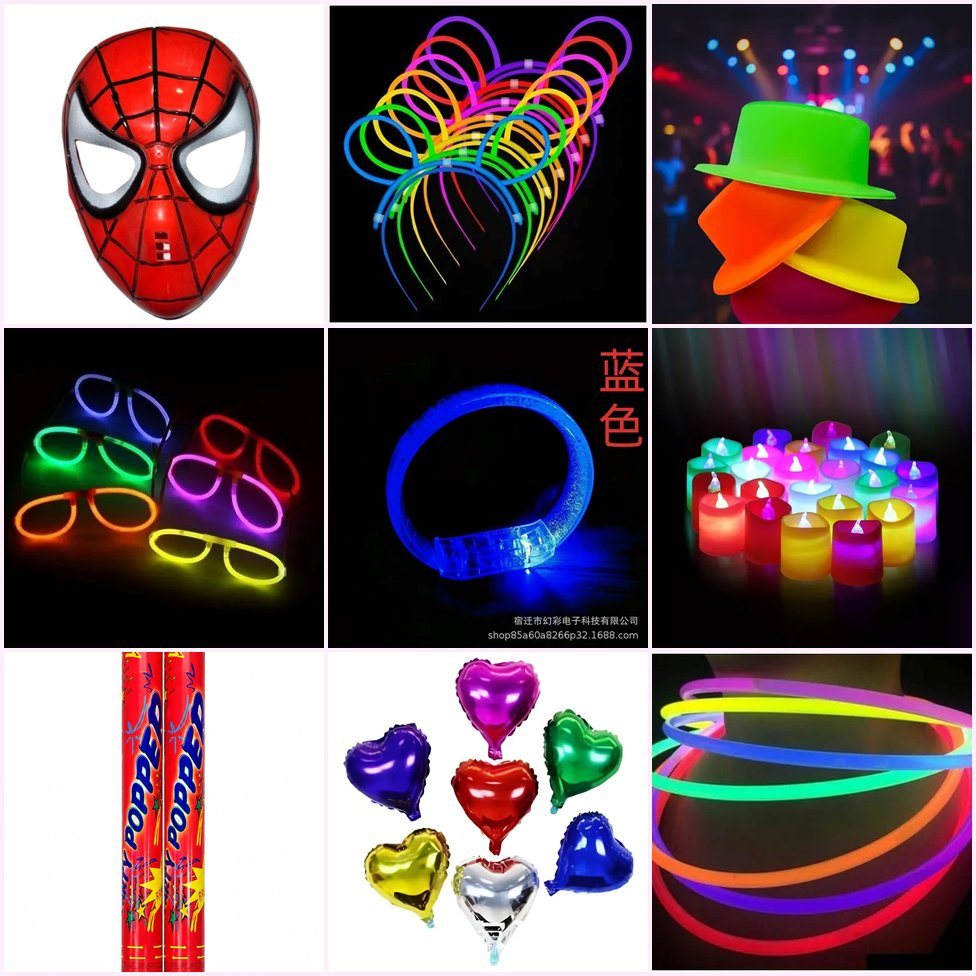
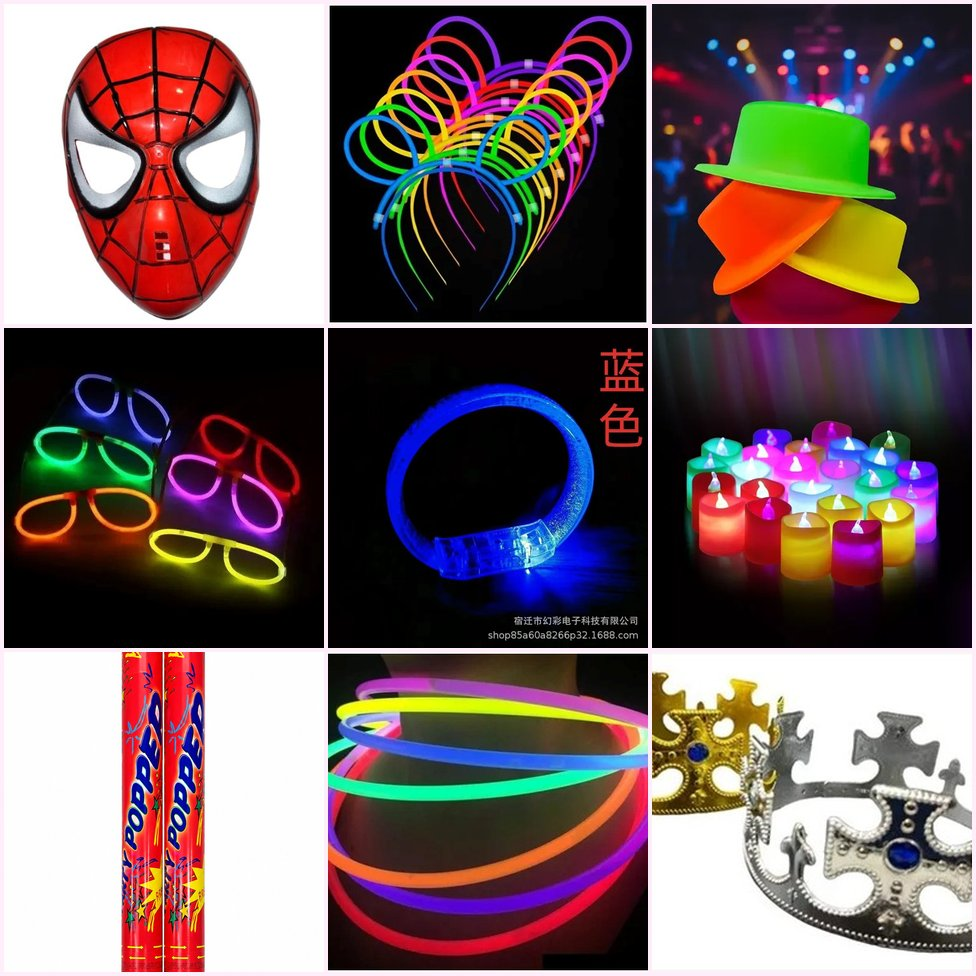
Sacar globos y bombuchas de todos los combos de cotillon
Los combos deben ser solo cotillon (decoracion, accesorios, luces,
juguetes), no globos ni bombuchas. Se reemplazaron los articulos con
globo por otros del catalogo real de Tyna, recalculando cantidad y
precio total de las 20 tarjetas:
 - Surtido: saca globos T260 y globo corazon -> agrega matracas y
   adornos mariposa dorada
 - Barato: saca bombuchas y globos T260 -> agrega anotadores y
   sorbetes metalizados
 - Medio: saca globo corazon -> agrega vincha de flores multicolor
 - Premium: saca globo corazon -> agrega corona rey dorado/plateado
 - LED/Neon: no tenia globos, sin cambios de articulos
Tambien se regeneraron las 4 portadas tipo collage afectadas sin
fotos de globos.

Changed region(s): [[0.3381, 0.6455, 1.0, 1.0]]

diff --git a/index.html b/index.html
@@ -1468,26 +1468,26 @@ footer strong{color:var(--gold2);}
 ════════════════════════════════════════ */
 const PRODUCTS = {
   combos: [
-    {id:'combo-barato-50',name:'Combo Cotillón Barato — 50 Personas',desc:'Combo Cotillón Barato, el más conveniente: mucha cantidad al mejor precio, con 9 artículos surtidos pensado para una fiesta de 50 personas. El detalle completo está en "Ver detalle".',items:['5x Bombuchas globo perlado (paq. 25 unid.)','20x Velas número (surtidas)','5x Pétalos de rosa de tela','15x Antifaces carnaval veneciano','20x Pulseras mágicas fluorescentes','3x Pulseras neón (tubo x50 unid.)','15x Bombines gibreados fluo','5x Globos surtidos standard T260 (paq. 20 unid.)','5x Lanzapapel de resorte'],price:17912.89,units:'9 artículos surtidos',img:'img/combo-barato-cover.jpg',badge:'Barato · 50 Personas',badgeType:'',linea:'🎁 Combo armado',sellMode:'bulk'},
-    {id:'combo-barato-100',name:'Combo Cotillón Barato — 100 Personas',desc:'Combo Cotillón Barato, el más conveniente: mucha cantidad al mejor precio, con 9 artículos surtidos pensado para una fiesta de 100 personas. El detalle completo está en "Ver detalle".',items:['10x Bombuchas globo perlado (paq. 25 unid.)','40x Velas número (surtidas)','10x Pétalos de rosa de tela','30x Antifaces carnaval veneciano','40x Pulseras mágicas fluorescentes','6x Pulseras neón (tubo x50 unid.)','30x Bombines gibreados fluo','10x Globos surtidos standard T260 (paq. 20 unid.)','10x Lanzapapel de resorte'],price:35825.78,units:'9 artículos surtidos',img:'img/combo-barato-cover.jpg',badge:'Barato · 100 Personas',badgeType:'',linea:'🎁 Combo armado',sellMode:'bulk'},
-    {id:'combo-barato-150',name:'Combo Cotillón Barato — 150 Personas',desc:'Combo Cotillón Barato, el más conveniente: mucha cantidad al mejor precio, con 9 artículos surtidos pensado para una fiesta de 150 personas. El detalle completo está en "Ver detalle".',items:['15x Bombuchas globo perlado (paq. 25 unid.)','60x Velas número (surtidas)','15x Pétalos de rosa de tela','45x Antifaces carnaval veneciano','60x Pulseras mágicas fluorescentes','9x Pulseras neón (tubo x50 unid.)','45x Bombines gibreados fluo','15x Globos surtidos standard T260 (paq. 20 unid.)','15x Lanzapapel de resorte'],price:53738.67,units:'9 artículos surtidos',img:'img/combo-barato-cover.jpg',badge:'Barato · 150 Personas',badgeType:'',linea:'🎁 Combo armado',sellMode:'bulk'},
-    {id:'combo-barato-200',name:'Combo Cotillón Barato — 200 Personas',desc:'Combo Cotillón Barato, el más conveniente: mucha cantidad al mejor precio, con 9 artículos surtidos pensado para una fiesta de 200 personas. El detalle completo está en "Ver detalle".',items:['20x Bombuchas globo perlado (paq. 25 unid.)','80x Velas número (surtidas)','20x Pétalos de rosa de tela','60x Antifaces carnaval veneciano','80x Pulseras mágicas fluorescentes','12x Pulseras neón (tubo x50 unid.)','60x Bombines gibreados fluo','20x Globos surtidos standard T260 (paq. 20 unid.)','20x Lanzapapel de resorte'],price:71651.56,units:'9 artículos surtidos',img:'img/combo-barato-cover.jpg',badge:'Barato · 200 Personas',badgeType:'',linea:'🎁 Combo armado',sellMode:'bulk'},
-    {id:'combo-medio-50',name:'Combo Cotillón Medio — 50 Personas',desc:'Combo Cotillón Medio, un punto medio entre variedad y precio, con 8 artículos surtidos pensado para una fiesta de 50 personas. El detalle completo está en "Ver detalle".',items:['10x Globos corazón decorativos 18"','25x Antifaces fluo con elástico','25x Gorros funyi metalizados','1x Velas largas con brillos (paq. 6 unid.)','1x Collares flexibles neón (tubo x50 unid.)','15x Pulseras acrílicas LED','15x Mechones de colores para el pelo','15x Corbatas fluo'],price:53004.67,units:'8 artículos surtidos',img:'img/combo-medio-cover.jpg',badge:'Medio · 50 Personas',badgeType:'',linea:'🎁 Combo armado',sellMode:'bulk'},
-    {id:'combo-medio-100',name:'Combo Cotillón Medio — 100 Personas',desc:'Combo Cotillón Medio, un punto medio entre variedad y precio, con 8 artículos surtidos pensado para una fiesta de 100 personas. El detalle completo está en "Ver detalle".',items:['20x Globos corazón decorativos 18"','50x Antifaces fluo con elástico','50x Gorros funyi metalizados','2x Velas largas con brillos (paq. 6 unid.)','2x Collares flexibles neón (tubo x50 unid.)','30x Pulseras acrílicas LED','30x Mechones de colores para el pelo','30x Corbatas fluo'],price:106009.34,units:'8 artículos surtidos',img:'img/combo-medio-cover.jpg',badge:'Medio · 100 Personas',badgeType:'',linea:'🎁 Combo armado',sellMode:'bulk'},
-    {id:'combo-medio-150',name:'Combo Cotillón Medio — 150 Personas',desc:'Combo Cotillón Medio, un punto medio entre variedad y precio, con 8 artículos surtidos pensado para una fiesta de 150 personas. El detalle completo está en "Ver detalle".',items:['30x Globos corazón decorativos 18"','75x Antifaces fluo con elástico','75x Gorros funyi metalizados','3x Velas largas con brillos (paq. 6 unid.)','3x Collares flexibles neón (tubo x50 unid.)','45x Pulseras acrílicas LED','45x Mechones de colores para el pelo','45x Corbatas fluo'],price:159014.01,units:'8 artículos surtidos',img:'img/combo-medio-cover.jpg',badge:'Medio · 150 Personas',badgeType:'',linea:'🎁 Combo armado',sellMode:'bulk'},
-    {id:'combo-medio-200',name:'Combo Cotillón Medio — 200 Personas',desc:'Combo Cotillón Medio, un punto medio entre variedad y precio, con 8 artículos surtidos pensado para una fiesta de 200 personas. El detalle completo está en "Ver detalle".',items:['40x Globos corazón decorativos 18"','100x Antifaces fluo con elástico','100x Gorros funyi metalizados','4x Velas largas con brillos (paq. 6 unid.)','4x Collares flexibles neón (tubo x50 unid.)','60x Pulseras acrílicas LED','60x Mechones de colores para el pelo','60x Corbatas fluo'],price:212018.68,units:'8 artículos surtidos',img:'img/combo-medio-cover.jpg',badge:'Medio · 200 Personas',badgeType:'',linea:'🎁 Combo armado',sellMode:'bulk'},
-    {id:'combo-premium-50',name:'Combo Cotillón Premium — 50 Personas',desc:'Combo Cotillón Premium, la selección más completa, con más variedad de artículos, con 10 artículos surtidos pensado para una fiesta de 50 personas. El detalle completo está en "Ver detalle".',items:['15x Máscaras de personajes','15x Vinchas neón','10x Galeras fluo','15x Anteojos con luz neón multicolor','15x Pulseras acrílicas LED','2x Velas de cotillón LED','5x Lanzapapel multicolor 50 cm','10x Squishy Capibara (juguete sorpresa)','10x Globos corazón decorativos 18"','1x Collares flexibles neón (tubo x50 unid.)'],price:87296.94,units:'10 artículos surtidos',img:'img/combo-premium-cover.jpg',badge:'Premium · 50 Personas',badgeType:'',linea:'🎁 Combo armado',sellMode:'bulk'},
-    {id:'combo-premium-100',name:'Combo Cotillón Premium — 100 Personas',desc:'Combo Cotillón Premium, la selección más completa, con más variedad de artículos, con 10 artículos surtidos pensado para una fiesta de 100 personas. El detalle completo está en "Ver detalle".',items:['30x Máscaras de personajes','30x Vinchas neón','20x Galeras fluo','30x Anteojos con luz neón multicolor','30x Pulseras acrílicas LED','4x Velas de cotillón LED','10x Lanzapapel multicolor 50 cm','20x Squishy Capibara (juguete sorpresa)','20x Globos corazón decorativos 18"','2x Collares flexibles neón (tubo x50 unid.)'],price:174593.88,units:'10 artículos surtidos',img:'img/combo-premium-cover.jpg',badge:'Premium · 100 Personas',badgeType:'',linea:'🎁 Combo armado',sellMode:'bulk'},
-    {id:'combo-premium-150',name:'Combo Cotillón Premium — 150 Personas',desc:'Combo Cotillón Premium, la selección más completa, con más variedad de artículos, con 10 artículos surtidos pensado para una fiesta de 150 personas. El detalle completo está en "Ver detalle".',items:['45x Máscaras de personajes','45x Vinchas neón','30x Galeras fluo','45x Anteojos con luz neón multicolor','45x Pulseras acrílicas LED','6x Velas de cotillón LED','15x Lanzapapel multicolor 50 cm','30x Squishy Capibara (juguete sorpresa)','30x Globos corazón decorativos 18"','3x Collares flexibles neón (tubo x50 unid.)'],price:261890.82,units:'10 artículos surtidos',img:'img/combo-premium-cover.jpg',badge:'Premium · 150 Personas',badgeType:'',linea:'🎁 Combo armado',sellMode:'bulk'},
-    {id:'combo-premium-200',name:'Combo Cotillón Premium — 200 Personas',desc:'Combo Cotillón Premium, la selección más completa, con más variedad de artículos, con 10 artículos surtidos pensado para una fiesta de 200 personas. El detalle completo está en "Ver detalle".',items:['60x Máscaras de personajes','60x Vinchas neón','40x Galeras fluo','60x Anteojos con luz neón multicolor','60x Pulseras acrílicas LED','8x Velas de cotillón LED','20x Lanzapapel multicolor 50 cm','40x Squishy Capibara (juguete sorpresa)','40x Globos corazón decorativos 18"','4x Collares flexibles neón (tubo x50 unid.)'],price:349187.76,units:'10 artículos surtidos',img:'img/combo-premium-cover.jpg',badge:'Premium · 200 Personas',badgeType:'',linea:'🎁 Combo armado',sellMode:'bulk'},
-    {id:'combo-led-50',name:'Combo Cotillón LED/Neón — 50 Personas',desc:'Combo Cotillón LED/Neón, todo lo que brilla: pulseras, anteojos, vinchas y velas LED/neón, con 10 artículos surtidos pensado para una fiesta de 50 personas. El detalle completo está en "Ver detalle".',items:['25x Pulseras mágicas fluorescentes','3x Pulseras neón (tubo x50 unid.)','15x Corbatas fluo','20x Pulseras acrílicas LED','15x Anteojos con luz neón multicolor','10x Anteojos corazón con luz neón multicolor','15x Bombines fluo','10x Vinchas neón','2x Collares flexibles neón (tubo x50 unid.)','2x Velas de cotillón LED'],price:61284.2,units:'10 artículos surtidos',img:'img/combo-led-cover.jpg',badge:'LED/Neón · 50 Personas',badgeType:'',linea:'🎁 Combo armado',sellMode:'bulk'},
-    {id:'combo-led-100',name:'Combo Cotillón LED/Neón — 100 Personas',desc:'Combo Cotillón LED/Neón, todo lo que brilla: pulseras, anteojos, vinchas y velas LED/neón, con 10 artículos surtidos pensado para una fiesta de 100 personas. El detalle completo está en "Ver detalle".',items:['50x Pulseras mágicas fluorescentes','6x Pulseras neón (tubo x50 unid.)','30x Corbatas fluo','40x Pulseras acrílicas LED','30x Anteojos con luz neón multicolor','20x Anteojos corazón con luz neón multicolor','30x Bombines fluo','20x Vinchas neón','4x Collares flexibles neón (tubo x50 unid.)','4x Velas de cotillón LED'],price:122568.4,units:'10 artículos surtidos',img:'img/combo-led-cover.jpg',badge:'LED/Neón · 100 Personas',badgeType:'',linea:'🎁 Combo armado',sellMode:'bulk'},
-    {id:'combo-led-150',name:'Combo Cotillón LED/Neón — 150 Personas',desc:'Combo Cotillón LED/Neón, todo lo que brilla: pulseras, anteojos, vinchas y velas LED/neón, con 10 artículos surtidos pensado para una fiesta de 150 personas. El detalle completo está en "Ver detalle".',items:['75x Pulseras mágicas fluorescentes','9x Pulseras neón (tubo x50 unid.)','45x Corbatas fluo','60x Pulseras acrílicas LED','45x Anteojos con luz neón multicolor','30x Anteojos corazón con luz neón multicolor','45x Bombines fluo','30x Vinchas neón','6x Collares flexibles neón (tubo x50 unid.)','6x Velas de cotillón LED'],price:183852.6,units:'10 artículos surtidos',img:'img/combo-led-cover.jpg',badge:'LED/Neón · 150 Personas',badgeType:'',linea:'🎁 Combo armado',sellMode:'bulk'},
-    {id:'combo-led-200',name:'Combo Cotillón LED/Neón — 200 Personas',desc:'Combo Cotillón LED/Neón, todo lo que brilla: pulseras, anteojos, vinchas y velas LED/neón, con 10 artículos surtidos pensado para una fiesta de 200 personas. El detalle completo está en "Ver detalle".',items:['100x Pulseras mágicas fluorescentes','12x Pulseras neón (tubo x50 unid.)','60x Corbatas fluo','80x Pulseras acrílicas LED','60x Anteojos con luz neón multicolor','40x Anteojos corazón con luz neón multicolor','60x Bombines fluo','40x Vinchas neón','8x Collares flexibles neón (tubo x50 unid.)','8x Velas de cotillón LED'],price:245136.8,units:'10 artículos surtidos',img:'img/combo-led-cover.jpg',badge:'LED/Neón · 200 Personas',badgeType:'',linea:'🎁 Combo armado',sellMode:'bulk'},
-    {id:'combo-50',name:'Combo Cotillón Surtido — 50 Personas',desc:'Combo armado con 9 artículos surtidos de cotillón (globos, gorros, antifaces, velas, collares, pulseras y más), pensado para una fiesta de 50 personas. El detalle completo está en "Ver detalle".',items:['3x Globos surtidos standard T260 (paq. 20 unid.)','10x Globos corazón decorativos 18"','25x Gorros funyi metalizados','25x Antifaces fluo con elástico','1x Velas largas con brillos (paq. 6 unid.)','5x Lanzapapel de resorte','1x Collares flexibles neón (tubo x50 unid.)','25x Pulseras mágicas fluorescentes','1x Burbujero surtido (paq. 48 unid.)'],price:39562.63,units:'9 artículos surtidos',img:'img/combo-surtido-cover.jpg',badge:'50 Personas',badgeType:'',linea:'🎁 Combo armado',sellMode:'bulk'},
-    {id:'combo-100',name:'Combo Cotillón Surtido — 100 Personas',desc:'Combo armado con 9 artículos surtidos de cotillón (globos, gorros, antifaces, velas, collares, pulseras y más), pensado para una fiesta de 100 personas. El detalle completo está en "Ver detalle".',items:['6x Globos surtidos standard T260 (paq. 20 unid.)','20x Globos corazón decorativos 18"','50x Gorros funyi metalizados','50x Antifaces fluo con elástico','2x Velas largas con brillos (paq. 6 unid.)','10x Lanzapapel de resorte','2x Collares flexibles neón (tubo x50 unid.)','50x Pulseras mágicas fluorescentes','2x Burbujero surtido (paq. 48 unid.)'],price:79125.26,units:'9 artículos surtidos',img:'img/combo-surtido-cover.jpg',badge:'100 Personas',badgeType:'',linea:'🎁 Combo armado',sellMode:'bulk'},
-    {id:'combo-150',name:'Combo Cotillón Surtido — 150 Personas',desc:'Combo armado con 9 artículos surtidos de cotillón (globos, gorros, antifaces, velas, collares, pulseras y más), pensado para una fiesta de 150 personas. El detalle completo está en "Ver detalle".',items:['9x Globos surtidos standard T260 (paq. 20 unid.)','30x Globos corazón decorativos 18"','75x Gorros funyi metalizados','75x Antifaces fluo con elástico','3x Velas largas con brillos (paq. 6 unid.)','15x Lanzapapel de resorte','3x Collares flexibles neón (tubo x50 unid.)','75x Pulseras mágicas fluorescentes','3x Burbujero surtido (paq. 48 unid.)'],price:118687.89,units:'9 artículos surtidos',img:'img/combo-surtido-cover.jpg',badge:'150 Personas',badgeType:'',linea:'🎁 Combo armado',sellMode:'bulk'},
-    {id:'combo-200',name:'Combo Cotillón Surtido — 200 Personas',desc:'Combo armado con 9 artículos surtidos de cotillón (globos, gorros, antifaces, velas, collares, pulseras y más), pensado para una fiesta de 200 personas. El detalle completo está en "Ver detalle".',items:['12x Globos surtidos standard T260 (paq. 20 unid.)','40x Globos corazón decorativos 18"','100x Gorros funyi metalizados','100x Antifaces fluo con elástico','4x Velas largas con brillos (paq. 6 unid.)','20x Lanzapapel de resorte','4x Collares flexibles neón (tubo x50 unid.)','100x Pulseras mágicas fluorescentes','4x Burbujero surtido (paq. 48 unid.)'],price:158250.52,units:'9 artículos surtidos',img:'img/combo-surtido-cover.jpg',badge:'200 Personas',badgeType:'',linea:'🎁 Combo armado',sellMode:'bulk'},
+    {id:'combo-50',name:'Combo Cotillón Surtido — 50 Personas',desc:'Combo Cotillón Surtido, un armado surtido de cotillón para fiesta, con 9 artículos surtidos (sin globos) pensado para una fiesta de 50 personas. El detalle completo está en "Ver detalle".',items:['25x Gorros funyi metalizados','25x Antifaces fluo con elástico','1x Velas largas con brillos (paq. 6 unid.)','5x Lanzapapel de resorte','1x Collares flexibles neón (tubo x50 unid.)','25x Pulseras mágicas fluorescentes','1x Burbujero surtido (paq. 48 unid.)','8x Matracas','4x Adornos mariposa dorada (paq. 12 unid.)'],price:41085.52,units:'9 artículos surtidos',img:'img/combo-surtido-cover.jpg',badge:'Surtido · 50 Personas',badgeType:'',linea:'🎁 Combo armado',sellMode:'bulk'},
+    {id:'combo-100',name:'Combo Cotillón Surtido — 100 Personas',desc:'Combo Cotillón Surtido, un armado surtido de cotillón para fiesta, con 9 artículos surtidos (sin globos) pensado para una fiesta de 100 personas. El detalle completo está en "Ver detalle".',items:['50x Gorros funyi metalizados','50x Antifaces fluo con elástico','2x Velas largas con brillos (paq. 6 unid.)','10x Lanzapapel de resorte','2x Collares flexibles neón (tubo x50 unid.)','50x Pulseras mágicas fluorescentes','2x Burbujero surtido (paq. 48 unid.)','16x Matracas','8x Adornos mariposa dorada (paq. 12 unid.)'],price:82171.04,units:'9 artículos surtidos',img:'img/combo-surtido-cover.jpg',badge:'Surtido · 100 Personas',badgeType:'',linea:'🎁 Combo armado',sellMode:'bulk'},
+    {id:'combo-150',name:'Combo Cotillón Surtido — 150 Personas',desc:'Combo Cotillón Surtido, un armado surtido de cotillón para fiesta, con 9 artículos surtidos (sin globos) pensado para una fiesta de 150 personas. El detalle completo está en "Ver detalle".',items:['75x Gorros funyi metalizados','75x Antifaces fluo con elástico','3x Velas largas con brillos (paq. 6 unid.)','15x Lanzapapel de resorte','3x Collares flexibles neón (tubo x50 unid.)','75x Pulseras mágicas fluorescentes','3x Burbujero surtido (paq. 48 unid.)','24x Matracas','12x Adornos mariposa dorada (paq. 12 unid.)'],price:123256.56,units:'9 artículos surtidos',img:'img/combo-surtido-cover.jpg',badge:'Surtido · 150 Personas',badgeType:'',linea:'🎁 Combo armado',sellMode:'bulk'},
+    {id:'combo-200',name:'Combo Cotillón Surtido — 200 Personas',desc:'Combo Cotillón Surtido, un armado surtido de cotillón para fiesta, con 9 artículos surtidos (sin globos) pensado para una fiesta de 200 personas. El detalle completo está en "Ver detalle".',items:['100x Gorros funyi metalizados','100x Antifaces fluo con elástico','4x Velas largas con brillos (paq. 6 unid.)','20x Lanzapapel de resorte','4x Collares flexibles neón (tubo x50 unid.)','100x Pulseras mágicas fluorescentes','4x Burbujero surtido (paq. 48 unid.)','32x Matracas','16x Adornos mariposa dorada (paq. 12 unid.)'],price:164342.08,units:'9 artículos surtidos',img:'img/combo-surtido-cover.jpg',badge:'Surtido · 200 Personas',badgeType:'',linea:'🎁 Combo armado',sellMode:'bulk'},
+    {id:'combo-barato-50',name:'Combo Cotillón Barato — 50 Personas',desc:'Combo Cotillón Barato, el más conveniente: mucha cantidad al mejor precio, con 9 artículos surtidos (sin globos) pensado para una fiesta de 50 personas. El detalle completo está en "Ver detalle".',items:['20x Velas número (surtidas)','5x Pétalos de rosa de tela','15x Antifaces carnaval veneciano','20x Pulseras mágicas fluorescentes','3x Pulseras neón (tubo x50 unid.)','15x Bombines gibreados fluo','5x Lanzapapel de resorte','10x Anotadores surtidos (paq. 100 unid.)','5x Sorbetes metalizados (paq. 25 unid.)'],price:18351.19,units:'9 artículos surtidos',img:'img/combo-barato-cover.jpg',badge:'Barato · 50 Personas',badgeType:'',linea:'🎁 Combo armado',sellMode:'bulk'},
+    {id:'combo-barato-100',name:'Combo Cotillón Barato — 100 Personas',desc:'Combo Cotillón Barato, el más conveniente: mucha cantidad al mejor precio, con 9 artículos surtidos (sin globos) pensado para una fiesta de 100 personas. El detalle completo está en "Ver detalle".',items:['40x Velas número (surtidas)','10x Pétalos de rosa de tela','30x Antifaces carnaval veneciano','40x Pulseras mágicas fluorescentes','6x Pulseras neón (tubo x50 unid.)','30x Bombines gibreados fluo','10x Lanzapapel de resorte','20x Anotadores surtidos (paq. 100 unid.)','10x Sorbetes metalizados (paq. 25 unid.)'],price:36702.38,units:'9 artículos surtidos',img:'img/combo-barato-cover.jpg',badge:'Barato · 100 Personas',badgeType:'',linea:'🎁 Combo armado',sellMode:'bulk'},
+    {id:'combo-barato-150',name:'Combo Cotillón Barato — 150 Personas',desc:'Combo Cotillón Barato, el más conveniente: mucha cantidad al mejor precio, con 9 artículos surtidos (sin globos) pensado para una fiesta de 150 personas. El detalle completo está en "Ver detalle".',items:['60x Velas número (surtidas)','15x Pétalos de rosa de tela','45x Antifaces carnaval veneciano','60x Pulseras mágicas fluorescentes','9x Pulseras neón (tubo x50 unid.)','45x Bombines gibreados fluo','15x Lanzapapel de resorte','30x Anotadores surtidos (paq. 100 unid.)','15x Sorbetes metalizados (paq. 25 unid.)'],price:55053.57,units:'9 artículos surtidos',img:'img/combo-barato-cover.jpg',badge:'Barato · 150 Personas',badgeType:'',linea:'🎁 Combo armado',sellMode:'bulk'},
+    {id:'combo-barato-200',name:'Combo Cotillón Barato — 200 Personas',desc:'Combo Cotillón Barato, el más conveniente: mucha cantidad al mejor precio, con 9 artículos surtidos (sin globos) pensado para una fiesta de 200 personas. El detalle completo está en "Ver detalle".',items:['80x Velas número (surtidas)','20x Pétalos de rosa de tela','60x Antifaces carnaval veneciano','80x Pulseras mágicas fluorescentes','12x Pulseras neón (tubo x50 unid.)','60x Bombines gibreados fluo','20x Lanzapapel de resorte','40x Anotadores surtidos (paq. 100 unid.)','20x Sorbetes metalizados (paq. 25 unid.)'],price:73404.76,units:'9 artículos surtidos',img:'img/combo-barato-cover.jpg',badge:'Barato · 200 Personas',badgeType:'',linea:'🎁 Combo armado',sellMode:'bulk'},
+    {id:'combo-medio-50',name:'Combo Cotillón Medio — 50 Personas',desc:'Combo Cotillón Medio, un punto medio entre variedad y precio, con 8 artículos surtidos (sin globos) pensado para una fiesta de 50 personas. El detalle completo está en "Ver detalle".',items:['25x Antifaces fluo con elástico','25x Gorros funyi metalizados','1x Velas largas con brillos (paq. 6 unid.)','1x Collares flexibles neón (tubo x50 unid.)','15x Pulseras acrílicas LED','15x Mechones de colores para el pelo','15x Corbatas fluo','15x Vinchas de flores multicolor'],price:62017.47,units:'8 artículos surtidos',img:'img/combo-medio-cover.jpg',badge:'Medio · 50 Personas',badgeType:'',linea:'🎁 Combo armado',sellMode:'bulk'},
+    {id:'combo-medio-100',name:'Combo Cotillón Medio — 100 Personas',desc:'Combo Cotillón Medio, un punto medio entre variedad y precio, con 8 artículos surtidos (sin globos) pensado para una fiesta de 100 personas. El detalle completo está en "Ver detalle".',items:['50x Antifaces fluo con elástico','50x Gorros funyi metalizados','2x Velas largas con brillos (paq. 6 unid.)','2x Collares flexibles neón (tubo x50 unid.)','30x Pulseras acrílicas LED','30x Mechones de colores para el pelo','30x Corbatas fluo','30x Vinchas de flores multicolor'],price:124034.94,units:'8 artículos surtidos',img:'img/combo-medio-cover.jpg',badge:'Medio · 100 Personas',badgeType:'',linea:'🎁 Combo armado',sellMode:'bulk'},
+    {id:'combo-medio-150',name:'Combo Cotillón Medio — 150 Personas',desc:'Combo Cotillón Medio, un punto medio entre variedad y precio, con 8 artículos surtidos (sin globos) pensado para una fiesta de 150 personas. El detalle completo está en "Ver detalle".',items:['75x Antifaces fluo con elástico','75x Gorros funyi metalizados','3x Velas largas con brillos (paq. 6 unid.)','3x Collares flexibles neón (tubo x50 unid.)','45x Pulseras acrílicas LED','45x Mechones de colores para el pelo','45x Corbatas fluo','45x Vinchas de flores multicolor'],price:186052.41,units:'8 artículos surtidos',img:'img/combo-medio-cover.jpg',badge:'Medio · 150 Personas',badgeType:'',linea:'🎁 Combo armado',sellMode:'bulk'},
+    {id:'combo-medio-200',name:'Combo Cotillón Medio — 200 Personas',desc:'Combo Cotillón Medio, un punto medio entre variedad y precio, con 8 artículos surtidos (sin globos) pensado para una fiesta de 200 personas. El detalle completo está en "Ver detalle".',items:['100x Antifaces fluo con elástico','100x Gorros funyi metalizados','4x Velas largas con brillos (paq. 6 unid.)','4x Collares flexibles neón (tubo x50 unid.)','60x Pulseras acrílicas LED','60x Mechones de colores para el pelo','60x Corbatas fluo','60x Vinchas de flores multicolor'],price:248069.88,units:'8 artículos surtidos',img:'img/combo-medio-cover.jpg',badge:'Medio · 200 Personas',badgeType:'',linea:'🎁 Combo armado',sellMode:'bulk'},
+    {id:'combo-premium-50',name:'Combo Cotillón Premium — 50 Personas',desc:'Combo Cotillón Premium, la selección más completa, con más variedad de artículos, con 10 artículos surtidos (sin globos) pensado para una fiesta de 50 personas. El detalle completo está en "Ver detalle".',items:['15x Máscaras de personajes','15x Vinchas neón','10x Galeras fluo','15x Anteojos con luz neón multicolor','15x Pulseras acrílicas LED','2x Velas de cotillón LED','5x Lanzapapel multicolor 50 cm','10x Squishy Capibara (juguete sorpresa)','1x Collares flexibles neón (tubo x50 unid.)','10x Coronas rey (dorado y plateado)'],price:93593.44,units:'10 artículos surtidos',img:'img/combo-premium-cover.jpg',badge:'Premium · 50 Personas',badgeType:'',linea:'🎁 Combo armado',sellMode:'bulk'},
+    {id:'combo-premium-100',name:'Combo Cotillón Premium — 100 Personas',desc:'Combo Cotillón Premium, la selección más completa, con más variedad de artículos, con 10 artículos surtidos (sin globos) pensado para una fiesta de 100 personas. El detalle completo está en "Ver detalle".',items:['30x Máscaras de personajes','30x Vinchas neón','20x Galeras fluo','30x Anteojos con luz neón multicolor','30x Pulseras acrílicas LED','4x Velas de cotillón LED','10x Lanzapapel multicolor 50 cm','20x Squishy Capibara (juguete sorpresa)','2x Collares flexibles neón (tubo x50 unid.)','20x Coronas rey (dorado y plateado)'],price:187186.88,units:'10 artículos surtidos',img:'img/combo-premium-cover.jpg',badge:'Premium · 100 Personas',badgeType:'',linea:'🎁 Combo armado',sellMode:'bulk'},
+    {id:'combo-premium-150',name:'Combo Cotillón Premium — 150 Personas',desc:'Combo Cotillón Premium, la selección más completa, con más variedad de artículos, con 10 artículos surtidos (sin globos) pensado para una fiesta de 150 personas. El detalle completo está en "Ver detalle".',items:['45x Máscaras de personajes','45x Vinchas neón','30x Galeras fluo','45x Anteojos con luz neón multicolor','45x Pulseras acrílicas LED','6x Velas de cotillón LED','15x Lanzapapel multicolor 50 cm','30x Squishy Capibara (juguete sorpresa)','3x Collares flexibles neón (tubo x50 unid.)','30x Coronas rey (dorado y plateado)'],price:280780.32,units:'10 artículos surtidos',img:'img/combo-premium-cover.jpg',badge:'Premium · 150 Personas',badgeType:'',linea:'🎁 Combo armado',sellMode:'bulk'},
+    {id:'combo-premium-200',name:'Combo Cotillón Premium — 200 Personas',desc:'Combo Cotillón Premium, la selección más completa, con más variedad de artículos, con 10 artículos surtidos (sin globos) pensado para una fiesta de 200 personas. El detalle completo está en "Ver detalle".',items:['60x Máscaras de personajes','60x Vinchas neón','40x Galeras fluo','60x Anteojos con luz neón multicolor','60x Pulseras acrílicas LED','8x Velas de cotillón LED','20x Lanzapapel multicolor 50 cm','40x Squishy Capibara (juguete sorpresa)','4x Collares flexibles neón (tubo x50 unid.)','40x Coronas rey (dorado y plateado)'],price:374373.76,units:'10 artículos surtidos',img:'img/combo-premium-cover.jpg',badge:'Premium · 200 Personas',badgeType:'',linea:'🎁 Combo armado',sellMode:'bulk'},
+    {id:'combo-led-50',name:'Combo Cotillón LED/Neón — 50 Personas',desc:'Combo Cotillón LED/Neón, todo lo que brilla: pulseras, anteojos, vinchas y velas LED/neón, con 10 artículos surtidos (sin globos) pensado para una fiesta de 50 personas. El detalle completo está en "Ver detalle".',items:['25x Pulseras mágicas fluorescentes','3x Pulseras neón (tubo x50 unid.)','15x Corbatas fluo','20x Pulseras acrílicas LED','15x Anteojos con luz neón multicolor','10x Anteojos corazón con luz neón multicolor','15x Bombines fluo','10x Vinchas neón','2x Collares flexibles neón (tubo x50 unid.)','2x Velas de cotillón LED'],price:61284.2,units:'10 artículos surtidos',img:'img/combo-led-cover.jpg',badge:'LED/Neón · 50 Personas',badgeType:'',linea:'🎁 Combo armado',sellMode:'bulk'},
+    {id:'combo-led-100',name:'Combo Cotillón LED/Neón — 100 Personas',desc:'Combo Cotillón LED/Neón, todo lo que brilla: pulseras, anteojos, vinchas y velas LED/neón, con 10 artículos surtidos (sin globos) pensado para una fiesta de 100 personas. El detalle completo está en "Ver detalle".',items:['50x Pulseras mágicas fluorescentes','6x Pulseras neón (tubo x50 unid.)','30x Corbatas fluo','40x Pulseras acrílicas LED','30x Anteojos con luz neón multicolor','20x Anteojos corazón con luz neón multicolor','30x Bombines fluo','20x Vinchas neón','4x Collares flexibles neón (tubo x50 unid.)','4x Velas de cotillón LED'],price:122568.4,units:'10 artículos surtidos',img:'img/combo-led-cover.jpg',badge:'LED/Neón · 100 Personas',badgeType:'',linea:'🎁 Combo armado',sellMode:'bulk'},
+    {id:'combo-led-150',name:'Combo Cotillón LED/Neón — 150 Personas',desc:'Combo Cotillón LED/Neón, todo lo que brilla: pulseras, anteojos, vinchas y velas LED/neón, con 10 artículos surtidos (sin globos) pensado para una fiesta de 150 personas. El detalle completo está en "Ver detalle".',items:['75x Pulseras mágicas fluorescentes','9x Pulseras neón (tubo x50 unid.)','45x Corbatas fluo','60x Pulseras acrílicas LED','45x Anteojos con luz neón multicolor','30x Anteojos corazón con luz neón multicolor','45x Bombines fluo','30x Vinchas neón','6x Collares flexibles neón (tubo x50 unid.)','6x Velas de cotillón LED'],price:183852.6,units:'10 artículos surtidos',img:'img/combo-led-cover.jpg',badge:'LED/Neón · 150 Personas',badgeType:'',linea:'🎁 Combo armado',sellMode:'bulk'},
+    {id:'combo-led-200',name:'Combo Cotillón LED/Neón — 200 Personas',desc:'Combo Cotillón LED/Neón, todo lo que brilla: pulseras, anteojos, vinchas y velas LED/neón, con 10 artículos surtidos (sin globos) pensado para una fiesta de 200 personas. El detalle completo está en "Ver detalle".',items:['100x Pulseras mágicas fluorescentes','12x Pulseras neón (tubo x50 unid.)','60x Corbatas fluo','80x Pulseras acrílicas LED','60x Anteojos con luz neón multicolor','40x Anteojos corazón con luz neón multicolor','60x Bombines fluo','40x Vinchas neón','8x Collares flexibles neón (tubo x50 unid.)','8x Velas de cotillón LED'],price:245136.8,units:'10 artículos surtidos',img:'img/combo-led-cover.jpg',badge:'LED/Neón · 200 Personas',badgeType:'',linea:'🎁 Combo armado',sellMode:'bulk'},
   ],
   cotillon: [
     {id:'cot-1080015943',name:'IMP GLOBO BURBUJA PVC C/ LUZ MULTICOLOR *UNI',desc:'',price:1727.15,units:'Por unidad',img:'https://www.tyna.com.ar/archivos/imagenes_productos/1080015943.jpg',badge:'',badgeType:'',linea:'DECORACION CON GLOBOS',sellMode:'bulk'},
